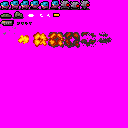
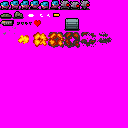
Added chest Added health pickup

Changed region(s): [[0.5, 0.125, 0.625, 0.25], [0.25, 0.1562, 0.3438, 0.2188]]

diff --git a/src/entity/chest.js b/src/entity/chest.js
@@ -1,0 +1,64 @@
+import BulletPickup from "./bulletpickup.js";
+import CollisionEntity from "./collisionentity.js";
+import Explosion from "./explosion.js";
+import Heart from "./heart.js";
+import Particle from "./particle.js";
+
+class Chest extends CollisionEntity{
+    constructor(posX, posY, direction) {
+        super(posX,posY,64,18,16,13,0xffffffff,32,26,"ch");
+        this.position.z = -1;
+        this.direction = direction;
+        this.speed = 5;
+        this.y = posY;
+        this.done = false;
+        this.angle = 0;
+        this.angleSpeed = this.getRandom(0.6,2);
+
+        this.hasLight = true;
+        this.lightColor = 0xffff9999;
+        this.lightSize = 250;
+        this.lightOffsetX = 15;
+    }
+
+    tick(game, deltaTime){
+        super.tick(game,deltaTime);
+        if (this.pickupSoundDelay>0) this.pickupSoundDelay -= deltaTime;
+        if (!this.done){
+            this.angle += deltaTime * this.angleSpeed;
+            var sin = Math.sin(this.angle*10);
+    
+            this.translate(this.direction.x,-sin*this.speed);
+
+            if (this.angle > 0.61){
+                this.done = true;
+                game.playLand();
+            } 
+        }
+    }
+
+    onDispose(game){
+        game.level.addEntity(new Explosion(this.position.x, this.position.y));
+        for (let i = 0; i < Math.floor(this.getRandom(10,20)); i++) {
+            game.level.addEntity(new BulletPickup(this.position.x, this.position.y+this.getRandom(-55,55), {x: this.getRandom(-5,5),y: -1}).setSourceEntity(this));
+            game.level.addEntity(new Heart(this.position.x, this.position.y+this.getRandom(-55,55), {x: this.getRandom(-5,5),y: -1}));
+        }
+        game.playExplosion();
+    }
+
+
+    collidedWith(game, otherEntity){
+        if (otherEntity.type == "b"){
+            this.hit(game,1,otherEntity.direction);
+            otherEntity.disposed = true;
+            game.level.addEntity(new BulletPickup(this.position.x, this.position.y+this.getRandom(-25,25), {x: this.getRandom(-2,2),y: -1}).setSourceEntity(this));
+            game.level.addEntity(new Particle(this.position.x, this.position.y+this.getRandom(-25,25), {x: this.getRandom(-2,2),y: -1},0xffffffff));
+            game.playHit();
+        }
+
+        super.collidedWith(game,otherEntity);
+        
+    }
+}
+
+export default Chest;

diff --git a/src/entity/heart.js b/src/entity/heart.js
@@ -1,0 +1,54 @@
+import CollisionEntity from "./collisionentity.js";
+
+class Heart extends CollisionEntity{
+    constructor(posX, posY, direction) {
+        super(posX,posY,34,20,7,7,0xffffffff,14,14,"hp");
+        this.position.z = -1;
+        this.direction = direction;
+        this.speed = 5;
+        this.y = posY;
+        this.done = false;
+        this.angle = 0;
+        this.angleSpeed = this.getRandom(0.6,2);
+
+        this.hasLight = true;
+        this.lightColor = 0xff0000ff;
+        this.lightSize = 250;
+        this.lightOffsetX = 15;
+    }
+
+    tick(game, deltaTime){
+        super.tick(game,deltaTime);
+        if (!this.done){
+            this.angle += deltaTime * this.angleSpeed;
+            var sin = Math.sin(this.angle*10);
+    
+            this.translate(this.direction.x,-sin*this.speed);
+
+            if (this.angle > 0.61){
+                this.done = true;
+            } 
+        }
+
+          // Move against the player if close. The closer the faster.
+          let playerPos = {x:game.level.player.position.x, y:game.level.player.position.y};
+          let dist = this.distance(this.position, playerPos);
+          if (dist < 50){
+              let velocity = {x:playerPos.x - this.position.x, y: playerPos.y - this.position.y};
+              this.normalize(velocity);
+              this.position.x += velocity.x*50*deltaTime*(500/dist);
+              this.position.y += velocity.y*50*deltaTime*(500/dist);
+              super.tick(game,deltaTime);
+          }
+    }
+
+    collidedWith(game, otherEntity){
+        if (otherEntity.type == "p"){
+            otherEntity.health++;
+            this.disposed = true;
+        }
+        super.collidedWith(game,otherEntity);
+        
+    }
+}
+export default Heart;

diff --git a/src/entity/enemy.js b/src/entity/enemy.js
@@ -1,5 +1,6 @@
 import Animation from "./animation.js";
 import BulletPickup from "./bulletpickup.js";
+import Chest from "./chest.js";
 import CollisionEntity from "./collisionentity.js";
 import Explosion from "./explosion.js";
 import Particle from "./particle.js";
@@ -48,6 +49,10 @@ class Enemy extends CollisionEntity{
             console.log("dropping bullet");
             game.level.addEntity(new BulletPickup(this.position.x, this.position.y+this.getRandom(-25,25), {x: this.getRandom(-2,2),y: -1}).setSourceEntity(this));
             
+        }
+
+        if (this.getRandom(0,1) < 0.3){
+            game.level.addEntity(new Chest(this.position.x, this.position.y+this.getRandom(-25,25), {x: this.getRandom(-2,2),y: -1}).setHealth(12));
         }
         game.playExplosion();
     }

diff --git a/src/level/level.js b/src/level/level.js
@@ -7,6 +7,7 @@ import AirTile from "../tile/airtile.js";
 import FloorTile1 from "../tile/floortile1.js";
 import FloorTile2 from "../tile/floortile2.js";
 import UI from "../ui/ui.js";
+import Chest from "../entity/chest.js";
 
 class Level{
 

diff --git a/src/lib/z.js b/src/lib/z.js
@@ -1,4 +1,4 @@
-zzfxV=.3;
+zzfxV=.1;
 zzfx=
 (lp = 20000,p=1,k=.05,b=220,e=0,r=0,t=.1,q=0,D=1,u=0,y=0,v=0,z=0,l=0,E=0,A=0,F=0,c=0,w=1,m=0,B=0)=>{
 let M=Math,R=44100,d=2*M.PI,G=u*=500*d/R/R,C=b*=(1-k+2*k*M.random(k=[]))*d/R,g=0,H=0,a=0,n=1,I=0
